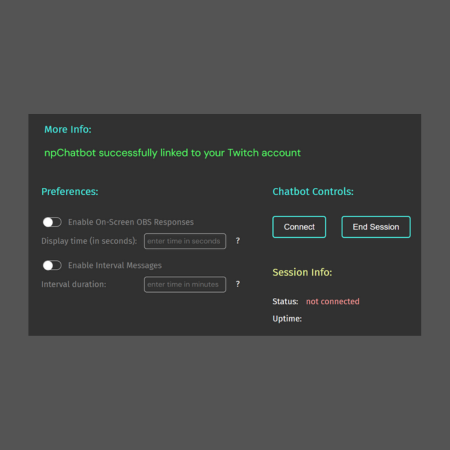
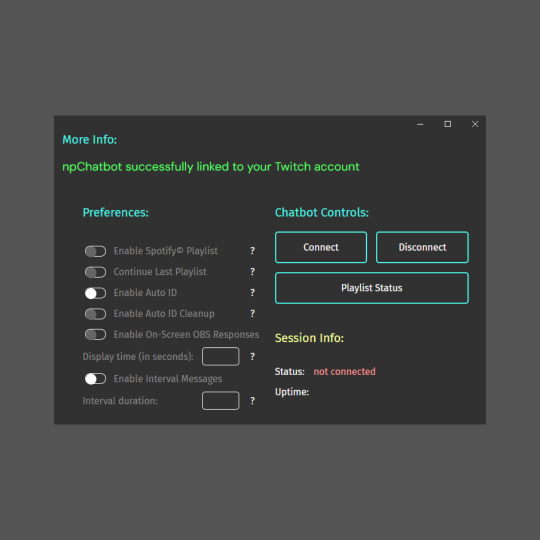
site updated for npchatbot 1.1

Changed region(s): [[0.0622, 0.2178, 0.9333, 0.8089]]

diff --git a/src/pages/analysis/AnalysisPage.tsx b/src/pages/analysis/AnalysisPage.tsx
@@ -4,17 +4,18 @@ import './analysispage.css'
 const AnalysisPage = (): JSX.Element => {
 	return (
 		<div className='analysis-page'>
-			<div className='analysis-page-header'>Data Quirks</div>			
+			<div className='analysis-page-header'>Data Quirks</div>
 			<div className='analysis-page-subheader'>
 				Determining The Longest Song Played
 			</div>
 			<div className='analysis-page-container'>
 				<div className='analysis-page-item'>
 					<p>
-						npChatbot collects your Serato<IconSpan/> live playlist data in real time to
-						calculate your stats, data which is limited to the title, artist, and the
-						start time of each song played. Using this data, it estimates song
-						lengths based on when each song started.
+						npChatbot collects your Serato
+						<IconSpan /> live playlist data in real time to calculate your
+						stats, data which is limited to the title, artist, and the start
+						time of each song played. Using this data, it estimates song lengths
+						based on when each song started.
 					</p>
 					<p>
 						Since the data only includes start times, npChatbot assumes minimal
@@ -60,9 +61,10 @@ const AnalysisPage = (): JSX.Element => {
 						entries.
 					</p>
 					<p>
-						However, due to inconsistencies in Serato's<IconSpan/> playlist logging, the
-						!np doubles command may sometimes fail to detect recent doubles or
-						display older doubles instead of the latest ones.
+						However, due to inconsistencies in Serato's
+						<IconSpan /> playlist logging, the !np doubles command may sometimes
+						fail to detect recent doubles or display older doubles instead of
+						the latest ones.
 					</p>
 				</div>
 			</div>
@@ -70,10 +72,51 @@ const AnalysisPage = (): JSX.Element => {
 			<div className='analysis-page-container'>
 				<div className='analysis-page-item'>
 					<p>
-						Note that the title/artist tags from Serato© will appear as-is in
-						the chatbot's responses. Cleaner tags ensure better results. Missing
-						or incorrect info may affect the !dyp command if the searched term
-						isn't found due to empty or malformed tags.
+						Note that the title/artist tags from Serato
+						<IconSpan /> will appear as-is in the chatbot's responses. Cleaner
+						tags ensure better results. Missing or incorrect info may affect the
+						!dyp command if the searched term isn't found due to empty or
+						malformed tags.
+					</p>
+				</div>
+			</div>
+			<div className='analysis-page-subheader'>Spotify Playlist Selections</div>
+			<div className='analysis-page-container'>
+				<div className='analysis-page-item'>
+					<p>
+						When using the included Spotify
+						<IconSpan /> feature to create/update a playlist of the songs you
+						play, npChatbot uses the file tag information from each song played
+						in Serato
+						<IconSpan /> to submit a request to Spotify
+						<IconSpan />.{' '}
+					</p>
+					<p>
+						The results of each request are used to determine which song is
+						added to your Spotify
+						<IconSpan /> playlist.
+					</p>
+					<p>
+						By default, the most popular result for the song information
+						submitted is used when adding songs to your current playlist. For
+						common, popular songs, the resulting addition should be reasonably
+						accurate.
+					</p>
+					<p>
+						For songs not available on Spotify
+						<IconSpan />, no addition or change is made to the current playlist.
+					</p>
+					<p>
+						Bearing in mind that the file tag information from Serato
+						<IconSpan /> is used to submit the queries to Spotify, less than
+						perfect file tags (typos, missing artist/title values, etc) can skew
+						the results returned from Spotify
+						<IconSpan /> that are used when updating your playlists.
+					</p>
+					<p>
+						We're currently working on improving the accuracy of the Spotify
+						results to account for scenarios and instances like the ones
+						described above.
 					</p>
 				</div>
 			</div>

diff --git a/src/pages/installation/panels/ReAuthPanel.tsx b/src/pages/installation/panels/ReAuthPanel.tsx
@@ -5,37 +5,47 @@ const ReAuthPanel = (): JSX.Element => {
 	return (
 		<div className='installation-page-directions-container'>
 			<div className='installation-page-header'>
-				6. Re-Authorizing npChatbot
+				6. Re-Authorizing npChatbot with Twitch
+				<IconSpan />
 			</div>
 			<div className='installation-page-directions-step'>
 				<p>
 					Changing the password for the Twitch
+					<IconSpan /> or Spotify
 					<IconSpan /> account that npChatbot is linked to disconnects any
-					third-party apps or services previously authorized through that
-					account, including npChatbot.
+					third-party apps or services previously authorized through those
+					accounts, including npChatbot.
 				</p>
 				<p>
-					To re-authorize npChatbot, click the{' '}
-					<span className='highlighted-installation-text'>Authorized</span>{' '}
-					button in the upper left of the app to restart the authorization
-					process. You will not need to re-enter your credentials or
-					preferences.
+					To re-authorize npChatbot, click either the{' '}
+					<span className='highlighted-installation-text'>
+						Twitch
+						<IconSpan />
+					</span>{' '}
+					or{' '}
+					<span className='highlighted-installation-text'>
+						Spotify
+						<IconSpan />
+					</span>{' '}
+					button in the upper left of npChatbot to restart the authorization
+					process for that particular app. You will not need to re-enter your
+					credentials or preferences.
 				</p>
 			</div>
-			<div className='installation-page-header'>De-Authorizing npChatbot</div>
+			<div className='installation-page-header'>
+				De-Authorizing npChatbot with Twitch
+				<IconSpan />
+			</div>
 			<div className='installation-page-directions-step'>
 				<p>
 					If you'd like to de-authorize npChatbot from your connected Twitch
 					<IconSpan />
 					account altogether:
 				</p>
-				- Log in to the Twitch
-				<IconSpan /> account npChatbot is authorized with
 				<p>
 					<p>
-						- Select{' '}
-						<span className='highlighted-installation-text'>Settings</span> from
-						the dropdown menu in the upper right
+						- Log in to the Twitch
+						<IconSpan /> account npChatbot is authorized with
 					</p>
 					<p>
 						- Navigate to{' '}
@@ -51,7 +61,37 @@ const ReAuthPanel = (): JSX.Element => {
 						</span>{' '}
 						section and click the{' '}
 						<span className='highlighted-installation-text'>Disconnect</span>{' '}
-						button next to npChatbot app to remove the authorization.
+						button next to npChatbot to remove the authorization.
+					</p>
+				</p>
+			</div>
+			<div className='installation-page-header'>
+				De-Authorizing npChatbot with Spotify
+				<IconSpan />
+			</div>
+			<div className='installation-page-directions-step'>
+				<p>
+					If you'd like to de-authorize npChatbot from your connected Spotify
+					account:
+				</p>
+				<p>
+					<p>
+						- Log in to the Spotify
+						<IconSpan /> account npChatbot is authorized with
+					</p>
+					<p>
+						- Click on your{' '}
+						<span className='highlighted-installation-text'>user icon</span> in
+						the upper right, and then select{' '}
+						<span className='highlighted-installation-text'>Account</span> from
+						the options
+					</p>
+					<p>
+						Scroll down and select the{' '}
+						<span className='highlighted-installation-text'>Manage Apps</span>{' '}
+						option. Finally, click the{' '}
+						<span className='highlighted-installation-text'>Remove Access</span>{' '}
+						button next to npChatbot to remove the authorization.
 					</p>
 				</p>
 			</div>

diff --git a/src/pages/installation/panels/NPChatbotStartupPanel.tsx b/src/pages/installation/panels/NPChatbotStartupPanel.tsx
@@ -188,6 +188,90 @@ const NPChatbotStartupPanel = (): JSX.Element => {
 					<IconSpan /> and ensure the playlist is set as public.
 				</p>
 			</div>
+			<div className='installation-page-header'>
+				Starting a new Spotify
+				<IconSpan /> playlist
+			</div>
+			<div className='installation-page-directions-step'>
+				<p>
+					*** This feature is available after authorizing npChatbot with{' '}
+					<span className='highlighted-text'>
+						Spotify
+						<IconSpan />
+					</span>
+				</p>
+				<p>
+					With the{' '}
+					<span className='highlighted-text'>Enable Spotify Playlist</span>{' '}
+					option enabled, a new{' '}
+					<span className='highlighted-text'>
+						Spotify
+						<IconSpan />
+					</span>{' '}
+					playlist will be created each time you connect npChatbot to{' '}
+					<span className='highlighted-text'>
+						Twitch
+						<IconSpan />
+					</span>
+					.
+				</p>
+				<p>
+					You can view the playlist in your{' '}
+					<span className='highlighted-text'>Spotify</span> account once
+					created. By default, it's given a name of "Twitch Stream Playlist",
+					along with the date of that particular stream.
+				</p>
+				<img
+					alt='npChatbot instructions, step 11'
+					src='/images/installation/setup_spotify_playlist_example_final.png'
+				/>
+				<p>
+					You or your viewers can access the link to the playlist at any time
+					during the stream by using the{' '}
+					<span className='highlighted-text'>!np playlist</span> command.
+				</p>
+				<p>
+					As songs are successfully added to your{' '}
+					<span className='highlighted-text'>
+						Spotify
+						<IconSpan />
+					</span>{' '}
+					playlist, you'll see a notification indicating such in npChatbot.
+				</p>
+				<img
+					alt='npChatbot instructions, step 12'
+					src='/images/installation/setup_spotify_playlist_updated_final.png'
+				/>
+			</div>
+			<div className='installation-page-header'>
+				Resuming your last Spotify
+				<IconSpan /> playlist
+			</div>
+			<div className='installation-page-directions-step'>
+				<p>
+					*** This feature is available after authorizing npChatbot with{' '}
+					<span className='highlighted-text'>
+						Spotify
+						<IconSpan />
+					</span>
+				</p>
+				<p>
+					With the{' '}
+					<span className='highlighted-text'>Continue Last Playlist</span>{' '}
+					option enabled, npChatbot will continue adding the tracks you play to
+					the most recent{' '}
+					<span className='highlighted-text'>
+						Spotify
+						<IconSpan />
+					</span>{' '}
+					playlist created.
+				</p>
+				<p>
+					If you need to disconnect and reconnect npChatbot during your stream
+					(to change your preferences, etc), enable this feature to prevent
+					npChatbot from creating another new playlist for your current stream.
+				</p>
+			</div>
 		</div>
 	)
 }

diff --git a/src/pages/installation/panels/InstallationPanel.tsx b/src/pages/installation/panels/InstallationPanel.tsx
@@ -22,8 +22,11 @@ const InstallationPanel = (): JSX.Element => {
 
 			<div className='installation-page-directions-step'>
 				Once loaded, click the{' '}
-				<span className='highlighted-installation-text'>Authorize</span> button
-				in the upper left to authorize npChatbot with Twitch
+				<span className='highlighted-installation-text'>
+					Twitch
+					<IconSpan />
+				</span>{' '}
+				icon button in the upper left to authorize npChatbot with Twitch
 				<IconSpan />.
 				<img
 					src='/images/installation/setup_01_final.png'
@@ -66,7 +69,54 @@ const InstallationPanel = (): JSX.Element => {
 					alt='npChatbot instructions, step 3'
 					src='/images/installation/setup_03_final.png'
 				/>
-			</div>			
+			</div>
+			<div className='installation-page-header'>
+				Spotify Authorization (Optional)
+			</div>
+			<div className='installation-page-directions-step'>
+				<p>
+					To link your{' '}
+					<span className='highlighted-text'>
+						Spotify
+						<IconSpan />
+					</span>{' '}
+					account with npChatbot, click the Spotify
+					<IconSpan /> icon up in the upper left to get started.
+				</p>
+				<p>
+					You should then see a prompt from{' '}
+					<span className='highlighted-text'>
+						Spotify
+						<IconSpan />
+					</span>{' '}
+					for you to authorize npChatbot.{' '}
+				</p>
+				<p>
+					Make sure that you're logged into the Spotify account that you'd like
+					npChatbot to use to create your playlists before tapping or clicking
+					Accept.
+				</p>
+				<img
+					src='/images/installation/setup_spotify_auth.png'
+					alt='npChatbot instructions, Spotify set 1'
+				/>
+			</div>
+			<div className='installation-page-directions-step'>
+				<p>
+					After authorizing with Spotify, you'll see a confirmation message from
+					npChatbot.
+				</p>
+				<img
+					src='/images/installation/setup_spotify_successful.png'
+					alt='npChatbot instructions, Spotify set 2'
+				/>
+				<p>
+					You will now be able to enable the Spotify playlist options in
+					npChatbot's preferences. Please see the{' '}
+					<span className='highlighted-text'>Preferences</span> section for
+					additional information about using these options in npChatbot.
+				</p>
+			</div>
 		</div>
 	)
 }

diff --git a/src/pages/installation/panels/PreferencesPanel.tsx b/src/pages/installation/panels/PreferencesPanel.tsx
@@ -6,9 +6,9 @@ const PreferencesPanel = (): JSX.Element => {
 		<div className='installation-page-directions-container'>
 			<div className='installation-page-header'>5. Preferences (optional)</div>
 			<div className='installation-page-directions-step'>
-				Set your preferences for OBS response and interval messages. Click{' '}
+				Set your preferences for npChatbot in this panel. Click{' '}
 				<span className='highlighted-installation-text'>Update</span> to save
-				your settings.
+				your settings when you change them.
 				<img
 					alt='npChatbot instructions, step 9'
 					src='/images/installation/setup_09_final.png'
@@ -98,7 +98,7 @@ const PreferencesPanel = (): JSX.Element => {
 
 			<div className='installation-page-directions-step'>
 				<p className='highlighted-installation-text'>
-					Enabled Auto ID Cleanup:
+					Enable Auto ID Cleanup:
 				</p>
 			</div>
 			<div className='installation-page-directions-step'>

diff --git a/src/pages/landing/LandingPage.tsx b/src/pages/landing/LandingPage.tsx
@@ -75,13 +75,13 @@ const LandingPage = (): JSX.Element => {
 						</p>
 						<p>
 							Under the hood, npChatbot will update your Spotify
-							<IconSpan /> playlist in real-time directly from your Serato
+							<IconSpan /> playlist directly from your Serato
 							<IconSpan /> play history with each new song you play during your
 							set.
 						</p>
 						<p>
 							With a simple command, viewers can access the Spotify playlist for
-							your current set at any time!
+							your current set in the chat at any time!
 						</p>
 					</div>
 				</div>
